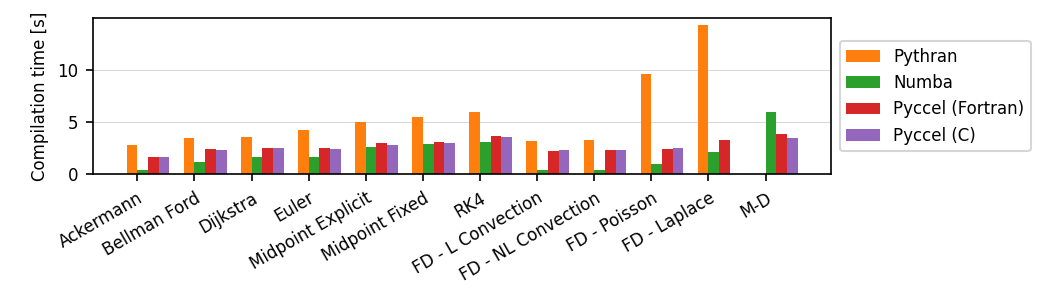
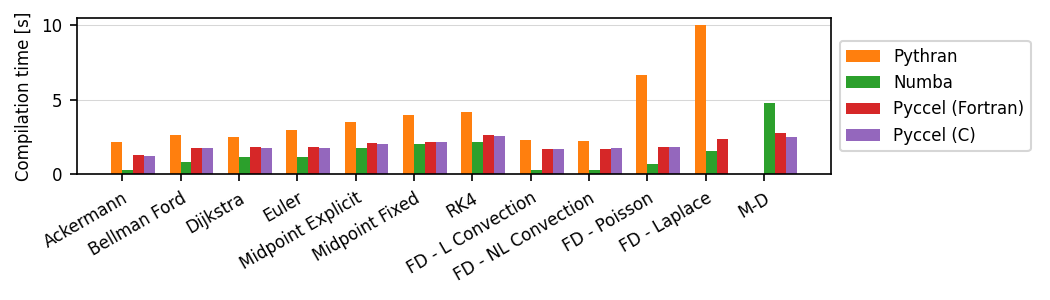
Use `resource` instead of `time` for numba (#10)
* Use resource for numba

* Update performance comparison

* Update README and version

Changed region(s): [[0.0, 0.03, 0.7924, 0.6], [0.0305, 0.63, 0.7314, 0.93], [0.7314, 0.45, 0.7619, 0.48]]

diff --git a/benchmarks/run_benchmarks.py b/benchmarks/run_benchmarks.py
@@ -272,7 +272,7 @@ for t in tests:
 
         elif time_compilation and case == "numba":
             cmd = ['pypy'] if case=='pypy' else ['python3']
-            run_str = "{setup}import time; t0 = time.process_time(); {run}; t1 = time.process_time(); {run}; t2 = time.process_time(); print(2*t1-t0-t2)".format(
+            run_str = "{setup}import resource; t0 = resource.getrusage(resource.RUSAGE_SELF); {run}; t1 = resource.getrusage(resource.RUSAGE_SELF); {run}; t2 = resource.getrusage(resource.RUSAGE_SELF); print(2*t1.ru_utime-t0.ru_utime-t2.ru_utime + 2*t1.ru_stime-t0.ru_stime-t2.ru_stime)".format(
                     setup=setup_cmd,
                     run=exec_cmd)
             cmd += ['-c', run_str]

diff --git a/README.md b/README.md
@@ -64,38 +64,38 @@ Solves a 2D Laplace problem using Finite Differences methods. The code is adapte
 
 Runs a molecular dynamics simulation. The code is adapted from examples written by [J. Burkardt](https://people.sc.fsu.edu/~jburkardt/py_src/py_src.html)
 ## Development branch results
-### Performance Comparison (as of Mon Dec 12 10:01:14 UTC 2022)
+### Performance Comparison (as of Sun Dec 11 17:22:56 UTC 2022)
 ## Compilation time
 Algorithm                 | python                    | pythran                   | numba                     | pyccel                    | pyccel_c                 
 ------------------------- | ------------------------- | ------------------------- | ------------------------- | ------------------------- | -------------------------
-Ackermann                 | -                         | 2.81                      | 0.45                      | 1.65                      | 1.64                     
-Bellman Ford              | -                         | 3.54                      | 1.23                      | 2.46                      | 2.36                     
-Dijkstra                  | -                         | 3.58                      | 1.65                      | 2.57                      | 2.51                     
-Euler                     | -                         | 4.23                      | 1.71                      | 2.50                      | 2.44                     
-Midpoint Explicit         | -                         | 5.03                      | 2.64                      | 3.03                      | 2.86                     
-Midpoint Fixed            | -                         | 5.54                      | 2.95                      | 3.12                      | 2.97                     
-RK4                       | -                         | 6.01                      | 3.07                      | 3.72                      | 3.61                     
-FD - L Convection         | -                         | 3.19                      | 0.42                      | 2.29                      | 2.31                     
-FD - NL Convection        | -                         | 3.28                      | 0.41                      | 2.32                      | 2.31                     
-FD - Poisson              | -                         | 9.63                      | 1.02                      | 2.46                      | 2.51                     
-FD - Laplace              | -                         | 14.28                     | 2.20                      | 3.26                      | -                        
-M-D                       | -                         | -                         | 5.97                      | 3.88                      | 3.50                     
+Ackermann                 | -                         | 2.15                      | 0.31                      | 1.29                      | 1.24                     
+Bellman Ford              | -                         | 2.62                      | 0.85                      | 1.80                      | 1.75                     
+Dijkstra                  | -                         | 2.51                      | 1.14                      | 1.86                      | 1.76                     
+Euler                     | -                         | 2.95                      | 1.18                      | 1.82                      | 1.80                     
+Midpoint Explicit         | -                         | 3.51                      | 1.80                      | 2.13                      | 2.07                     
+Midpoint Fixed            | -                         | 3.99                      | 2.07                      | 2.19                      | 2.16                     
+RK4                       | -                         | 4.21                      | 2.15                      | 2.64                      | 2.58                     
+FD - L Convection         | -                         | 2.29                      | 0.29                      | 1.68                      | 1.70                     
+FD - NL Convection        | -                         | 2.27                      | 0.29                      | 1.73                      | 1.74                     
+FD - Poisson              | -                         | 6.66                      | 0.70                      | 1.84                      | 1.82                     
+FD - Laplace              | -                         | 9.97                      | 1.58                      | 2.35                      | -                        
+M-D                       | -                         | -                         | 4.76                      | 2.75                      | 2.49                     
 
 ## Execution time
 Algorithm                 | python                    | pythran                   | numba                     | pyccel                    | pyccel_c                 
 ------------------------- | ------------------------- | ------------------------- | ------------------------- | ------------------------- | -------------------------
-Ackermann (ms)            | 504.00                    | 5.06                      | 32.60                     | 2.32                      | 2.36                     
-Bellman Ford (ns)         | 70200.00                  | 470.00                    | 700.00                    | 263.00                    | 645.00                   
-Dijkstra (ns)             | 37300.00                  | 410.00                    | 600.00                    | 328.00                    | 596.00                   
-Euler (ms)                | 56.90                     | 0.88                      | 1.20                      | 0.21                      | 3.62                     
-Midpoint Explicit (ms)    | 118.00                    | 1.86                      | 2.95                      | 0.34                      | 6.27                     
-Midpoint Fixed (ms)       | 594.00                    | 10.90                     | 15.90                     | 1.22                      | 31.00                    
-RK4 (ms)                  | 279.00                    | 2.82                      | 5.39                      | 0.41                      | 8.17                     
-FD - L Convection (ms)    | 2540.00                   | 2.05                      | 10.80                     | 2.75                      | 3.29                     
-FD - NL Convection (ms)   | 3230.00                   | 2.35                      | 11.50                     | 2.68                      | 4.12                     
-FD - Poisson (ms)         | 5510.00                   | 4.15                      | 12.20                     | 5.55                      | 4.03                     
-FD - Laplace (\textmu s)  | 72.80                     | 3.41                      | 11000.00                  | 2.92                      | -                        
-M-D (ms)                  | 57900.00                  | -                         | 295.00                    | 350.00                    | 355.00                   
+Ackermann (ms)            | 359.00                    | 6.95                      | 30.60                     | 2.88                      | 3.33                     
+Bellman Ford (ns)         | 58800.00                  | 325.00                    | 600.00                    | 187.00                    | 426.00                   
+Dijkstra (ns)             | 25900.00                  | 275.00                    | 400.00                    | 225.00                    | 406.00                   
+Euler (ms)                | 44.30                     | 0.61                      | 1.01                      | 0.12                      | 2.66                     
+Midpoint Explicit (ms)    | 86.70                     | 1.37                      | 2.57                      | 0.20                      | 4.75                     
+Midpoint Fixed (ms)       | 435.00                    | 8.24                      | 14.00                     | 0.83                      | 20.90                    
+RK4 (ms)                  | 215.00                    | 1.70                      | 5.05                      | 0.24                      | 5.69                     
+FD - L Convection (ms)    | 1820.00                   | 1.56                      | 8.35                      | 1.50                      | 1.43                     
+FD - NL Convection (ms)   | 2300.00                   | 1.70                      | 8.17                      | 1.48                      | 1.50                     
+FD - Poisson (ms)         | 3820.00                   | 1.84                      | 9.24                      | 3.42                      | 1.60                     
+FD - Laplace (\textmu s)  | 41.30                     | 2.22                      | 7330.00                   | 1.86                      | -                        
+M-D (ms)                  | 42000.00                  | -                         | 199.00                    | 245.00                    | 249.00                   
 
 ![Development compilation results](./version_specific_results/devel_performance_310_compilation.png)
 ![Development execution results](./version_specific_results/devel_performance_310_execution.png)

diff --git a/version_specific_results/devel_performance_310.md b/version_specific_results/devel_performance_310.md
@@ -1,32 +1,32 @@
-### Performance Comparison (as of Mon Dec 12 10:01:14 UTC 2022)
+### Performance Comparison (as of Sun Dec 11 17:22:56 UTC 2022)
 ## Compilation time
 Algorithm                 | python                    | pythran                   | numba                     | pyccel                    | pyccel_c                 
 ------------------------- | ------------------------- | ------------------------- | ------------------------- | ------------------------- | -------------------------
-Ackermann                 | -                         | 2.81                      | 0.45                      | 1.65                      | 1.64                     
-Bellman Ford              | -                         | 3.54                      | 1.23                      | 2.46                      | 2.36                     
-Dijkstra                  | -                         | 3.58                      | 1.65                      | 2.57                      | 2.51                     
-Euler                     | -                         | 4.23                      | 1.71                      | 2.50                      | 2.44                     
-Midpoint Explicit         | -                         | 5.03                      | 2.64                      | 3.03                      | 2.86                     
-Midpoint Fixed            | -                         | 5.54                      | 2.95                      | 3.12                      | 2.97                     
-RK4                       | -                         | 6.01                      | 3.07                      | 3.72                      | 3.61                     
-FD - L Convection         | -                         | 3.19                      | 0.42                      | 2.29                      | 2.31                     
-FD - NL Convection        | -                         | 3.28                      | 0.41                      | 2.32                      | 2.31                     
-FD - Poisson              | -                         | 9.63                      | 1.02                      | 2.46                      | 2.51                     
-FD - Laplace              | -                         | 14.28                     | 2.20                      | 3.26                      | -                        
-M-D                       | -                         | -                         | 5.97                      | 3.88                      | 3.50                     
+Ackermann                 | -                         | 2.15                      | 0.31                      | 1.29                      | 1.24                     
+Bellman Ford              | -                         | 2.62                      | 0.85                      | 1.80                      | 1.75                     
+Dijkstra                  | -                         | 2.51                      | 1.14                      | 1.86                      | 1.76                     
+Euler                     | -                         | 2.95                      | 1.18                      | 1.82                      | 1.80                     
+Midpoint Explicit         | -                         | 3.51                      | 1.80                      | 2.13                      | 2.07                     
+Midpoint Fixed            | -                         | 3.99                      | 2.07                      | 2.19                      | 2.16                     
+RK4                       | -                         | 4.21                      | 2.15                      | 2.64                      | 2.58                     
+FD - L Convection         | -                         | 2.29                      | 0.29                      | 1.68                      | 1.70                     
+FD - NL Convection        | -                         | 2.27                      | 0.29                      | 1.73                      | 1.74                     
+FD - Poisson              | -                         | 6.66                      | 0.70                      | 1.84                      | 1.82                     
+FD - Laplace              | -                         | 9.97                      | 1.58                      | 2.35                      | -                        
+M-D                       | -                         | -                         | 4.76                      | 2.75                      | 2.49                     
 
 ## Execution time
 Algorithm                 | python                    | pythran                   | numba                     | pyccel                    | pyccel_c                 
 ------------------------- | ------------------------- | ------------------------- | ------------------------- | ------------------------- | -------------------------
-Ackermann (ms)            | 504.00                    | 5.06                      | 32.60                     | 2.32                      | 2.36                     
-Bellman Ford (ns)         | 70200.00                  | 470.00                    | 700.00                    | 263.00                    | 645.00                   
-Dijkstra (ns)             | 37300.00                  | 410.00                    | 600.00                    | 328.00                    | 596.00                   
-Euler (ms)                | 56.90                     | 0.88                      | 1.20                      | 0.21                      | 3.62                     
-Midpoint Explicit (ms)    | 118.00                    | 1.86                      | 2.95                      | 0.34                      | 6.27                     
-Midpoint Fixed (ms)       | 594.00                    | 10.90                     | 15.90                     | 1.22                      | 31.00                    
-RK4 (ms)                  | 279.00                    | 2.82                      | 5.39                      | 0.41                      | 8.17                     
-FD - L Convection (ms)    | 2540.00                   | 2.05                      | 10.80                     | 2.75                      | 3.29                     
-FD - NL Convection (ms)   | 3230.00                   | 2.35                      | 11.50                     | 2.68                      | 4.12                     
-FD - Poisson (ms)         | 5510.00                   | 4.15                      | 12.20                     | 5.55                      | 4.03                     
-FD - Laplace (\textmu s)  | 72.80                     | 3.41                      | 11000.00                  | 2.92                      | -                        
-M-D (ms)                  | 57900.00                  | -                         | 295.00                    | 350.00                    | 355.00                   
+Ackermann (ms)            | 359.00                    | 6.95                      | 30.60                     | 2.88                      | 3.33                     
+Bellman Ford (ns)         | 58800.00                  | 325.00                    | 600.00                    | 187.00                    | 426.00                   
+Dijkstra (ns)             | 25900.00                  | 275.00                    | 400.00                    | 225.00                    | 406.00                   
+Euler (ms)                | 44.30                     | 0.61                      | 1.01                      | 0.12                      | 2.66                     
+Midpoint Explicit (ms)    | 86.70                     | 1.37                      | 2.57                      | 0.20                      | 4.75                     
+Midpoint Fixed (ms)       | 435.00                    | 8.24                      | 14.00                     | 0.83                      | 20.90                    
+RK4 (ms)                  | 215.00                    | 1.70                      | 5.05                      | 0.24                      | 5.69                     
+FD - L Convection (ms)    | 1820.00                   | 1.56                      | 8.35                      | 1.50                      | 1.43                     
+FD - NL Convection (ms)   | 2300.00                   | 1.70                      | 8.17                      | 1.48                      | 1.50                     
+FD - Poisson (ms)         | 3820.00                   | 1.84                      | 9.24                      | 3.42                      | 1.60                     
+FD - Laplace (\textmu s)  | 41.30                     | 2.22                      | 7330.00                   | 1.86                      | -                        
+M-D (ms)                  | 42000.00                  | -                         | 199.00                    | 245.00                    | 249.00                   
